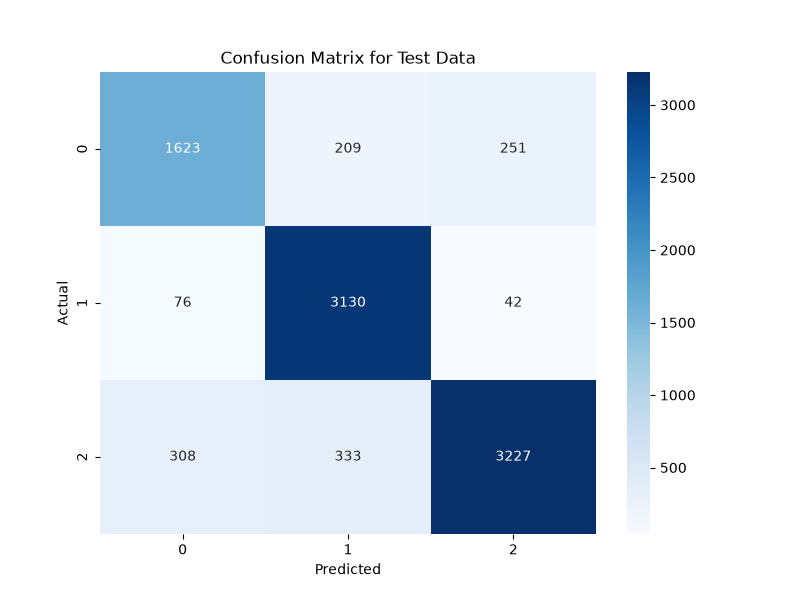
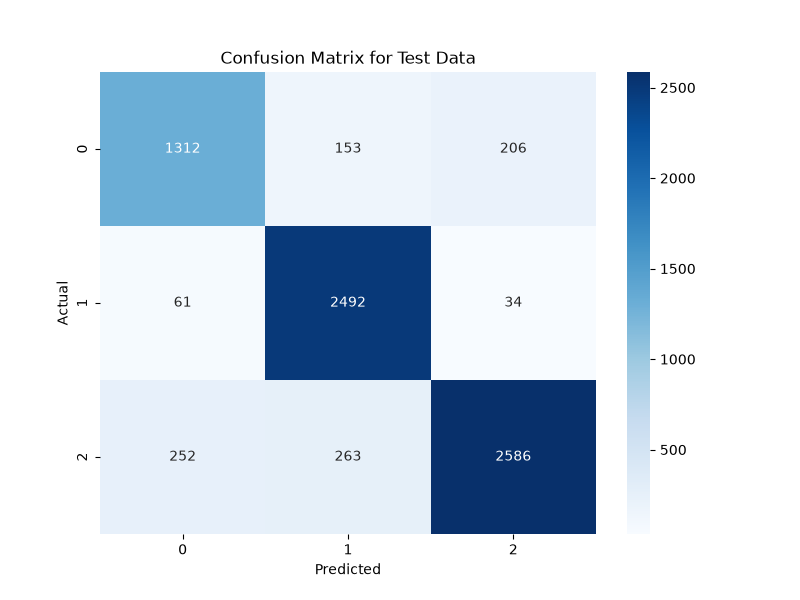
add code for flask api

diff --git a/src/model/model_evaluation.py b/src/model/model_evaluation.py
@@ -1,3 +1,4 @@
+import mlflow.lightgbm
 import numpy as np
 import pandas as pd
 import pickle
@@ -5,7 +6,6 @@ import logging
 import yaml
 import mlflow
 import mlflow.sklearn
-import mlflow.lightgbm
 from sklearn.metrics import classification_report, confusion_matrix
 from sklearn.feature_extraction.text import TfidfVectorizer
 import os
@@ -110,18 +110,34 @@ def log_confusion_matrix(cm, dataset_name):
     mlflow.log_artifact(cm_file_path)
     plt.close()
 
+def save_model_info(run_id: str, model_path: str, file_path: str) -> None:
+    """Save the model run ID and path to a JSON file."""
+    try:
+        # Create a dictionary with the info you want to save
+        model_info = {
+            'run_id': run_id,
+            'model_path': model_path
+        }
+        # Save the dictionary as a JSON file
+        with open(file_path, 'w') as file:
+            json.dump(model_info, file, indent=4)
+        logger.debug('Model info saved to %s', file_path)
+    except Exception as e:
+        logger.error('Error occurred while saving the model info: %s', e)
+        raise
+
 
 def main():
     mlflow.set_tracking_uri("http://ec2-51-20-51-194.eu-north-1.compute.amazonaws.com:5000/")
 
     mlflow.set_experiment('dvc-pipeline')
     
-    with mlflow.start_run():
+    with mlflow.start_run() as run:
         try:
             # Load parameters from YAML file
             root_dir = os.path.abspath(os.path.join(os.path.dirname(__file__), '../../'))
             params = load_params(os.path.join(root_dir, 'params.yaml'))
-            
+
             # Log parameters
             for key, value in params.items():
                 mlflow.log_param(key, value)
@@ -130,21 +146,33 @@ def main():
             model = load_model(os.path.join(root_dir, 'lgbm_model.pkl'))
             vectorizer = load_vectorizer(os.path.join(root_dir, 'tfidf_vectorizer.pkl'))
 
-            # Log model paramter
-            if hasattr(model, 'get_params'):
-                for param_name, param_value in model.get_params().items():
-                    mlflow.log_param(param_name, param_value)
-
-            # Log model and vectorizer
-            mlflow.lightgbm.log_model(model, "lgbm_model")
-            mlflow.log_artifact(os.path.join(root_dir, "tfidf_vectorizer.pkl"))
-
-            # Load test data 
+            # Load test data for signature inference
             test_data = load_data(os.path.join(root_dir, 'data/interim/test_processed.csv'))
 
             # Prepare test data
             X_test_tfidf = vectorizer.transform(test_data['clean_comment'].values)
             y_test = test_data['category'].values
+
+            # Create a DataFrame for signature inference (using first few rows as an example)
+            input_example = pd.DataFrame(X_test_tfidf.toarray()[:5], columns=vectorizer.get_feature_names_out())  # <--- Added for signature
+
+            # Infer the signature
+            signature = infer_signature(input_example, model.predict(X_test_tfidf[:5]))  # <--- Added for signature
+
+            # Log model with signature
+            mlflow.lightgbm.log_model(
+                model,
+                "lgbm_model",
+                signature=signature,  # <--- Added for signature
+                input_example=input_example  # <--- Added input example
+            )
+
+            # Save model info
+            model_path = "lgbm_model"
+            save_model_info(run.info.run_id, model_path, 'experiment_info.json')
+
+            # Log the vectorizer as an artifact
+            mlflow.log_artifact(os.path.join(root_dir, 'tfidf_vectorizer.pkl'))
 
             # Evaluate model and get metrics
             report, cm = evaluate_model(model, X_test_tfidf, y_test)

diff --git a/flask_app/app.py b/flask_app/app.py
@@ -1,0 +1,103 @@
+from flask import Flask, request, jsonify
+from flask_cors import CORS
+import mlflow
+import numpy as np
+import joblib
+import re
+import pandas as pd
+from nltk.corpus import stopwords
+from nltk.stem import WordNetLemmatizer
+from mlflow.tracking import MlflowClient
+
+app = Flask(__name__)
+CORS(app)  #Enable CORS for all routes
+
+# Define the preprocessing function
+def preprocess_comment(comment):
+    """Apply preprocessing transformations to a comment."""
+    try:
+        # Convert to lowercase
+        comment = comment.lower()
+
+        # Remove trailing and leading whitespaces
+        comment = comment.strip()
+
+        # Remove newline characters
+        comment = re.sub(r'\n', ' ', comment)
+
+        # Remove non-alphanumeric characters, except punctuation
+        comment = re.sub(r'[^A-Za-z0-9\s!?.,]', '', comment)
+
+        # Remove stopwords but retain important ones for sentiment analysis
+        stop_words = set(stopwords.words('english')) - {'not', 'but', 'however', 'no', 'yet'}
+        comment = ' '.join([word for word in comment.split() if word not in stop_words])
+
+        # Lemmatize the words
+        lemmatizer = WordNetLemmatizer()
+        comment = ' '.join([lemmatizer.lemmatize(word) for word in comment.split()])
+
+        return comment
+    except Exception as e:
+        print(f"Error in preprocessing comment: {e}")
+        return comment
+
+# Load the model and vectorizer from the model registry and local storage
+def load_model_and_vectorizer(model_name, model_version, vectorizer_path):
+    # Set MLflow tracking URI to your server
+    mlflow.set_tracking_uri("http://ec2-51-20-51-194.eu-north-1.compute.amazonaws.com:5000/")  # Replace with your MLflow tracking URI
+    client = MlflowClient()
+    model_uri = f"models:/{model_name}/{model_version}"
+    model = mlflow.pyfunc.load_model(model_uri)
+    vectorizer = joblib.load(vectorizer_path)  # Load the vectorizer
+    return model, vectorizer
+
+# Initialize the model and vectorizer
+model, vectorizer = load_model_and_vectorizer("yt_chrome_plugin_model", "2", "./tfidf_vectorizer.pkl")  # Update paths and versions as needed
+
+@app.route('/predict', methods=['POST'])
+def predict():
+    data = request.json
+    comments = data.get('comments')
+
+    if not comments:
+        return jsonify({"error": "No comments provided"}), 400
+
+    try:
+        # Preprocess comments
+        preprocessed_comments = [
+            preprocess_comment(comment) for comment in comments
+        ]
+
+        # TF-IDF transformation
+        transformed_comments = vectorizer.transform(preprocessed_comments)
+
+        # IMPORTANT:
+        # Convert sparse TF-IDF matrix into DataFrame
+        # with the same feature names used during training
+        feature_names = vectorizer.get_feature_names_out()
+
+        transformed_df = pd.DataFrame(
+            transformed_comments.toarray(),
+            columns=feature_names
+        )
+
+        # Prediction
+        predictions = model.predict(transformed_df).tolist()
+
+    except Exception as e:
+        return jsonify({
+            "error": f"Prediction failed: {str(e)}"
+        }), 500
+
+    response = [
+        {
+            "comment": comment,
+            "sentiment": sentiment
+        }
+        for comment, sentiment in zip(comments, predictions)
+    ]
+
+    return jsonify(response)
+        
+if __name__ == '__main__':
+    app.run(host='0.0.0.0', port=5000)

diff --git a/src/model/register_model.py b/src/model/register_model.py
@@ -1,0 +1,76 @@
+# register model
+
+import json
+import mlflow
+import logging
+import os
+
+# Set up MLflow tracking URI
+mlflow.set_tracking_uri("http://ec2-51-20-51-194.eu-north-1.compute.amazonaws.com:5000/")
+
+
+# logging configuration
+logger = logging.getLogger('model_registration')
+logger.setLevel('DEBUG')
+
+console_handler = logging.StreamHandler()
+console_handler.setLevel('DEBUG')
+
+file_handler = logging.FileHandler('model_registration_errors.log')
+file_handler.setLevel('ERROR')
+
+formatter = logging.Formatter('%(asctime)s - %(name)s - %(levelname)s - %(message)s')
+console_handler.setFormatter(formatter)
+file_handler.setFormatter(formatter)
+
+logger.addHandler(console_handler)
+logger.addHandler(file_handler)
+
+def load_model_info(file_path: str) -> dict:
+    """Load the model info from a JSON file."""
+    try:
+        with open(file_path, 'r') as file:
+            model_info = json.load(file)
+        logger.debug('Model info loaded from %s', file_path)
+        return model_info
+    except FileNotFoundError:
+        logger.error('File not found: %s', file_path)
+        raise
+    except Exception as e:
+        logger.error('Unexpected error occurred while loading the model info: %s', e)
+        raise
+
+def register_model(model_name: str, model_info: dict):
+    """Register the model to the MLflow Model Registry."""
+    try:
+        model_uri = f"runs:/{model_info['run_id']}/{model_info['model_path']}"
+        
+        # Register the model
+        model_version = mlflow.register_model(model_uri, model_name)
+        
+        # Transition the model to "Staging" stage
+        client = mlflow.tracking.MlflowClient()
+        client.transition_model_version_stage(
+            name=model_name,
+            version=model_version.version,
+            stage="Staging"
+        )
+        
+        logger.debug(f'Model {model_name} version {model_version.version} registered and transitioned to Staging.')
+    except Exception as e:
+        logger.error('Error during model registration: %s', e)
+        raise
+
+def main():
+    try:
+        model_info_path = 'experiment_info.json'
+        model_info = load_model_info(model_info_path)
+        
+        model_name = "yt_chrome_plugin_model"
+        register_model(model_name, model_info)
+    except Exception as e:
+        logger.error('Failed to complete the model registration process: %s', e)
+        print(f"Error: {e}")
+
+if __name__ == '__main__':
+    main()

diff --git a/src/model/model_building.py b/src/model/model_building.py
@@ -1,5 +1,3 @@
-# src/model/model_building.py
-
 import numpy as np
 import pandas as pd
 import os
